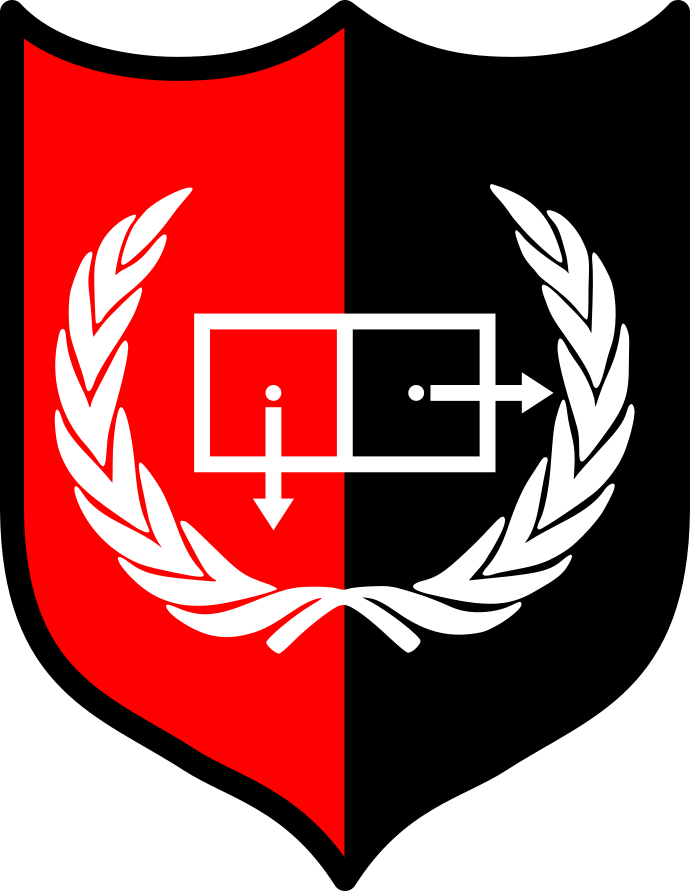
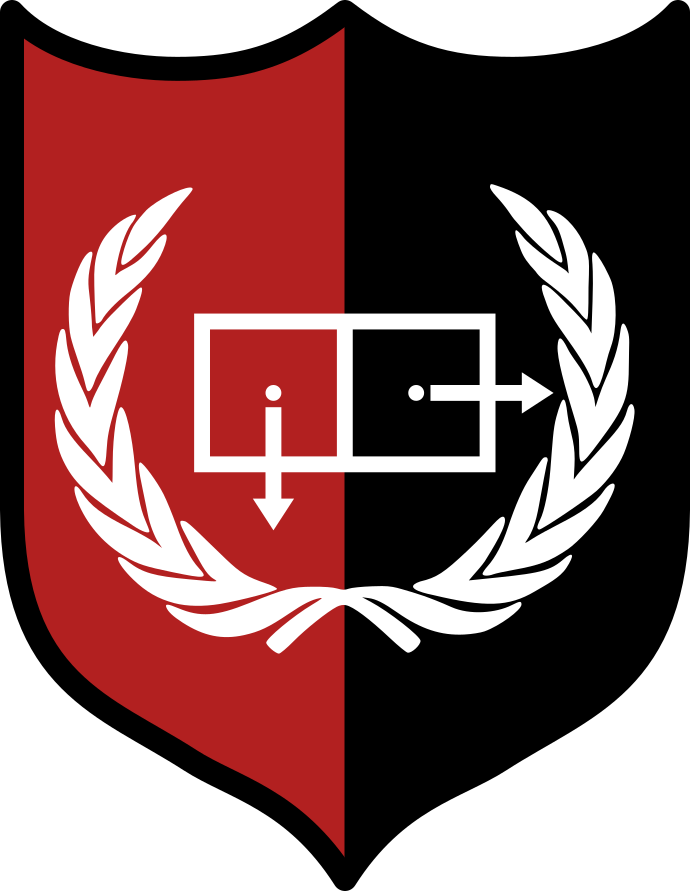
Updated content and styling slightly

Changed region(s): [[0.0304, 0.0303, 0.5174, 0.9697]]

diff --git a/content/foretag.md b/content/foretag.md
@@ -1,0 +1,58 @@
+---
+title: Företag
+date: 2022-01-25T14:00:00.000Z
+authorbox: false
+sidebar: false
+menu: main
+---
+
+
+
+Vill ni som företag komma i kontakt med datavetare?
+---------------------------------------------------
+
+Kontakten mellan näringslivet och studenter på det datavetenskapliga programmen
+på Uppsala universitet sköts av vår PR-amanuens. Amanuensen är en student
+som är anställd av IT-institutionen för att utöver sina studier arbeta med
+näringslivskontakter och rekryteringsfrågor.
+
+Amanuensens huvudsakliga arbetsuppgift är att ordna event där företag
+marknadsför sig själva gentemot studenter, och detta sker ofta i samarbete med
+PR-amanuensen för civilingenjörsprogrammet i informationsteknologi.
+
+Vi har tidigare ordnat
+----------------------
+
+**Lunchföredrag**
+
+Att bjuda på lunch och prata om företaget är ett bra tillfälle att introducera
+studenterna till ert företag; vilka ni är och vad ni gör.
+
+**Kvällsevent**
+
+Kvällsevent är en bra chans att träffa studenter under mer avslappnade
+förhållanden. Utöver att endast hålla föredrag kan man även prata individuellt
+med dem och på så vis få bättre kontakt. Dessa event kan anpassas efter
+önskemål, men ett typiskt koncept är att ha en presentation av företaget som
+sedan följs av mingel med studenterna. Det brukar även bjudas på mat och/eller
+dricka. Kvällsevent kan hållas på t.ex. en pub, nation eller lokal på skolan.
+
+Vi kan erbjuda
+--------------
+
+- Personlig kontakt med studenter som närmar sig examen och exjobb. Ofta har
+  företagseventen lett till lyckade rekryteringar.
+
+- Skapa en positiv bild av företaget hos studenterna.
+
+- Marknadsföring av er via olika medier, t.ex. hemsida.
+
+- All praktiskt förberedning inför event. Vi erbjuder att ordna information
+  till studenterna, anmälan, lokalbokning och beställning av mat.
+
+För IT-institutionen är det viktigt att utbildningen är i fas med
+näringslivsutvecklingen, och en viktig del i detta är just kontakt mellan
+studenter och företag. Vi utformar våra företagsevent med interaktivitet och
+personliga kontakter som riktmärke.
+
+Kontakta [dv-pr@it.uu.se](mailto:dv-pr@it.uu.se) för mer information samt vid intresse.

diff --git a/content/lankar.md b/content/lankar.md
@@ -1,0 +1,33 @@
+---
+title: Länkar
+date: 2022-01-25T14:00:00.000Z
+authorbox: false
+sidebar: false
+menu: main
+---
+
+**Blivande student**
+- [Dataiuppsala](http://www.dataiuppsala.se/)
+
+**Studier**
+- [Antagning.se](http://www.antagning.se/se/start)
+- [IT-institutionen](http://www.it.uu.se/)
+- [Schemasök](https://se.timeedit.net/web/uu/db1/schema/ri1X50g61y60YvQQ05Z5067Y0.html)
+- [Teknat student](http://teknat.uu.se/Student/)
+- [Uppsala Datavetare GitHub](https://github.com/uppsaladatavetare)
+
+
+**Studentliv**
+- [Ergo](http://www.ergo.nu/)
+- [Nationsguiden](http://www.nationsguiden.se/)
+- [Uppsalastudent](http://uppsalastudent.com/)
+- [Uppsala studentkår](http://www.uppsalastudentkar.nu/)
+- [Uppsala teknolog- och naturvetarkår](http://www.utn.se/)
+
+
+**Bostad**
+- [Rikshem](https://www.rikshem.se/)
+- [Heimstaden](http://www.heimstaden.com/)
+- [Uppsalahem](http://www.uppsalahem.se/)
+- [Studentboet](http://studentboet.se/sv/)
+- [Studentstaden](https://www.studentstaden.se/)

diff --git a/content/styrelsen.md b/content/styrelsen.md
@@ -1,0 +1,27 @@
+---
+title: Styrelsen
+date: 2022-01-25T14:00:00.000Z
+authorbox: false
+sidebar: false
+menu: main
+---
+
+# Styrelsen
+
+* Ordförande: Oskar Nylin
+  * dv-ordf@utn.se
+* Vice Ordförande & Kassör: Sigurd Drivenes 
+  * dv-kassor@utn.se
+* Studierådsordförande: Sabere Hassanyazdi
+  * dv-sr@utn.se
+* Studiesocialt ansvarig: Julia Sandberg
+  * dv-soc@utn.se
+* Tillgångsansvarig: Aron Lif
+  * dv-stuff@utn.se
+* Klubbmästare: David Andersson (senior) och Leon Philip (junior)
+  * dv-klubb@utn.se
+* Sekreterare: Eydis Daanen
+  * dv-sekreterare@utn.se
+* Informationsansvarig: Linus Wæhler
+  * dv-info@utn.se
+

diff --git a/content/alumn.md b/content/alumn.md
@@ -1,0 +1,11 @@
+---
+title: Alumn
+date: 2022-01-25T14:00:00.000Z
+authorbox: false
+sidebar: false
+menu: main
+---
+
+Uppsala datavetare tillhandahåller inte något eget nätverk för alumner, däremot har [Alumn Nätverket](https://www.uu.se/alumn/Alumnnatverket/) för alla som studerat, arbetar eller har arbetat vid Uppsala universitet.
+
+Även Uppsala teknolog och naturvetarkår (UTN) har ett alumnnätverk där de aktivt arbetar för att hålla god kontakt med alumner. [Här?](https://www.utn.se/sv/arbetsmarknad/alumn)
